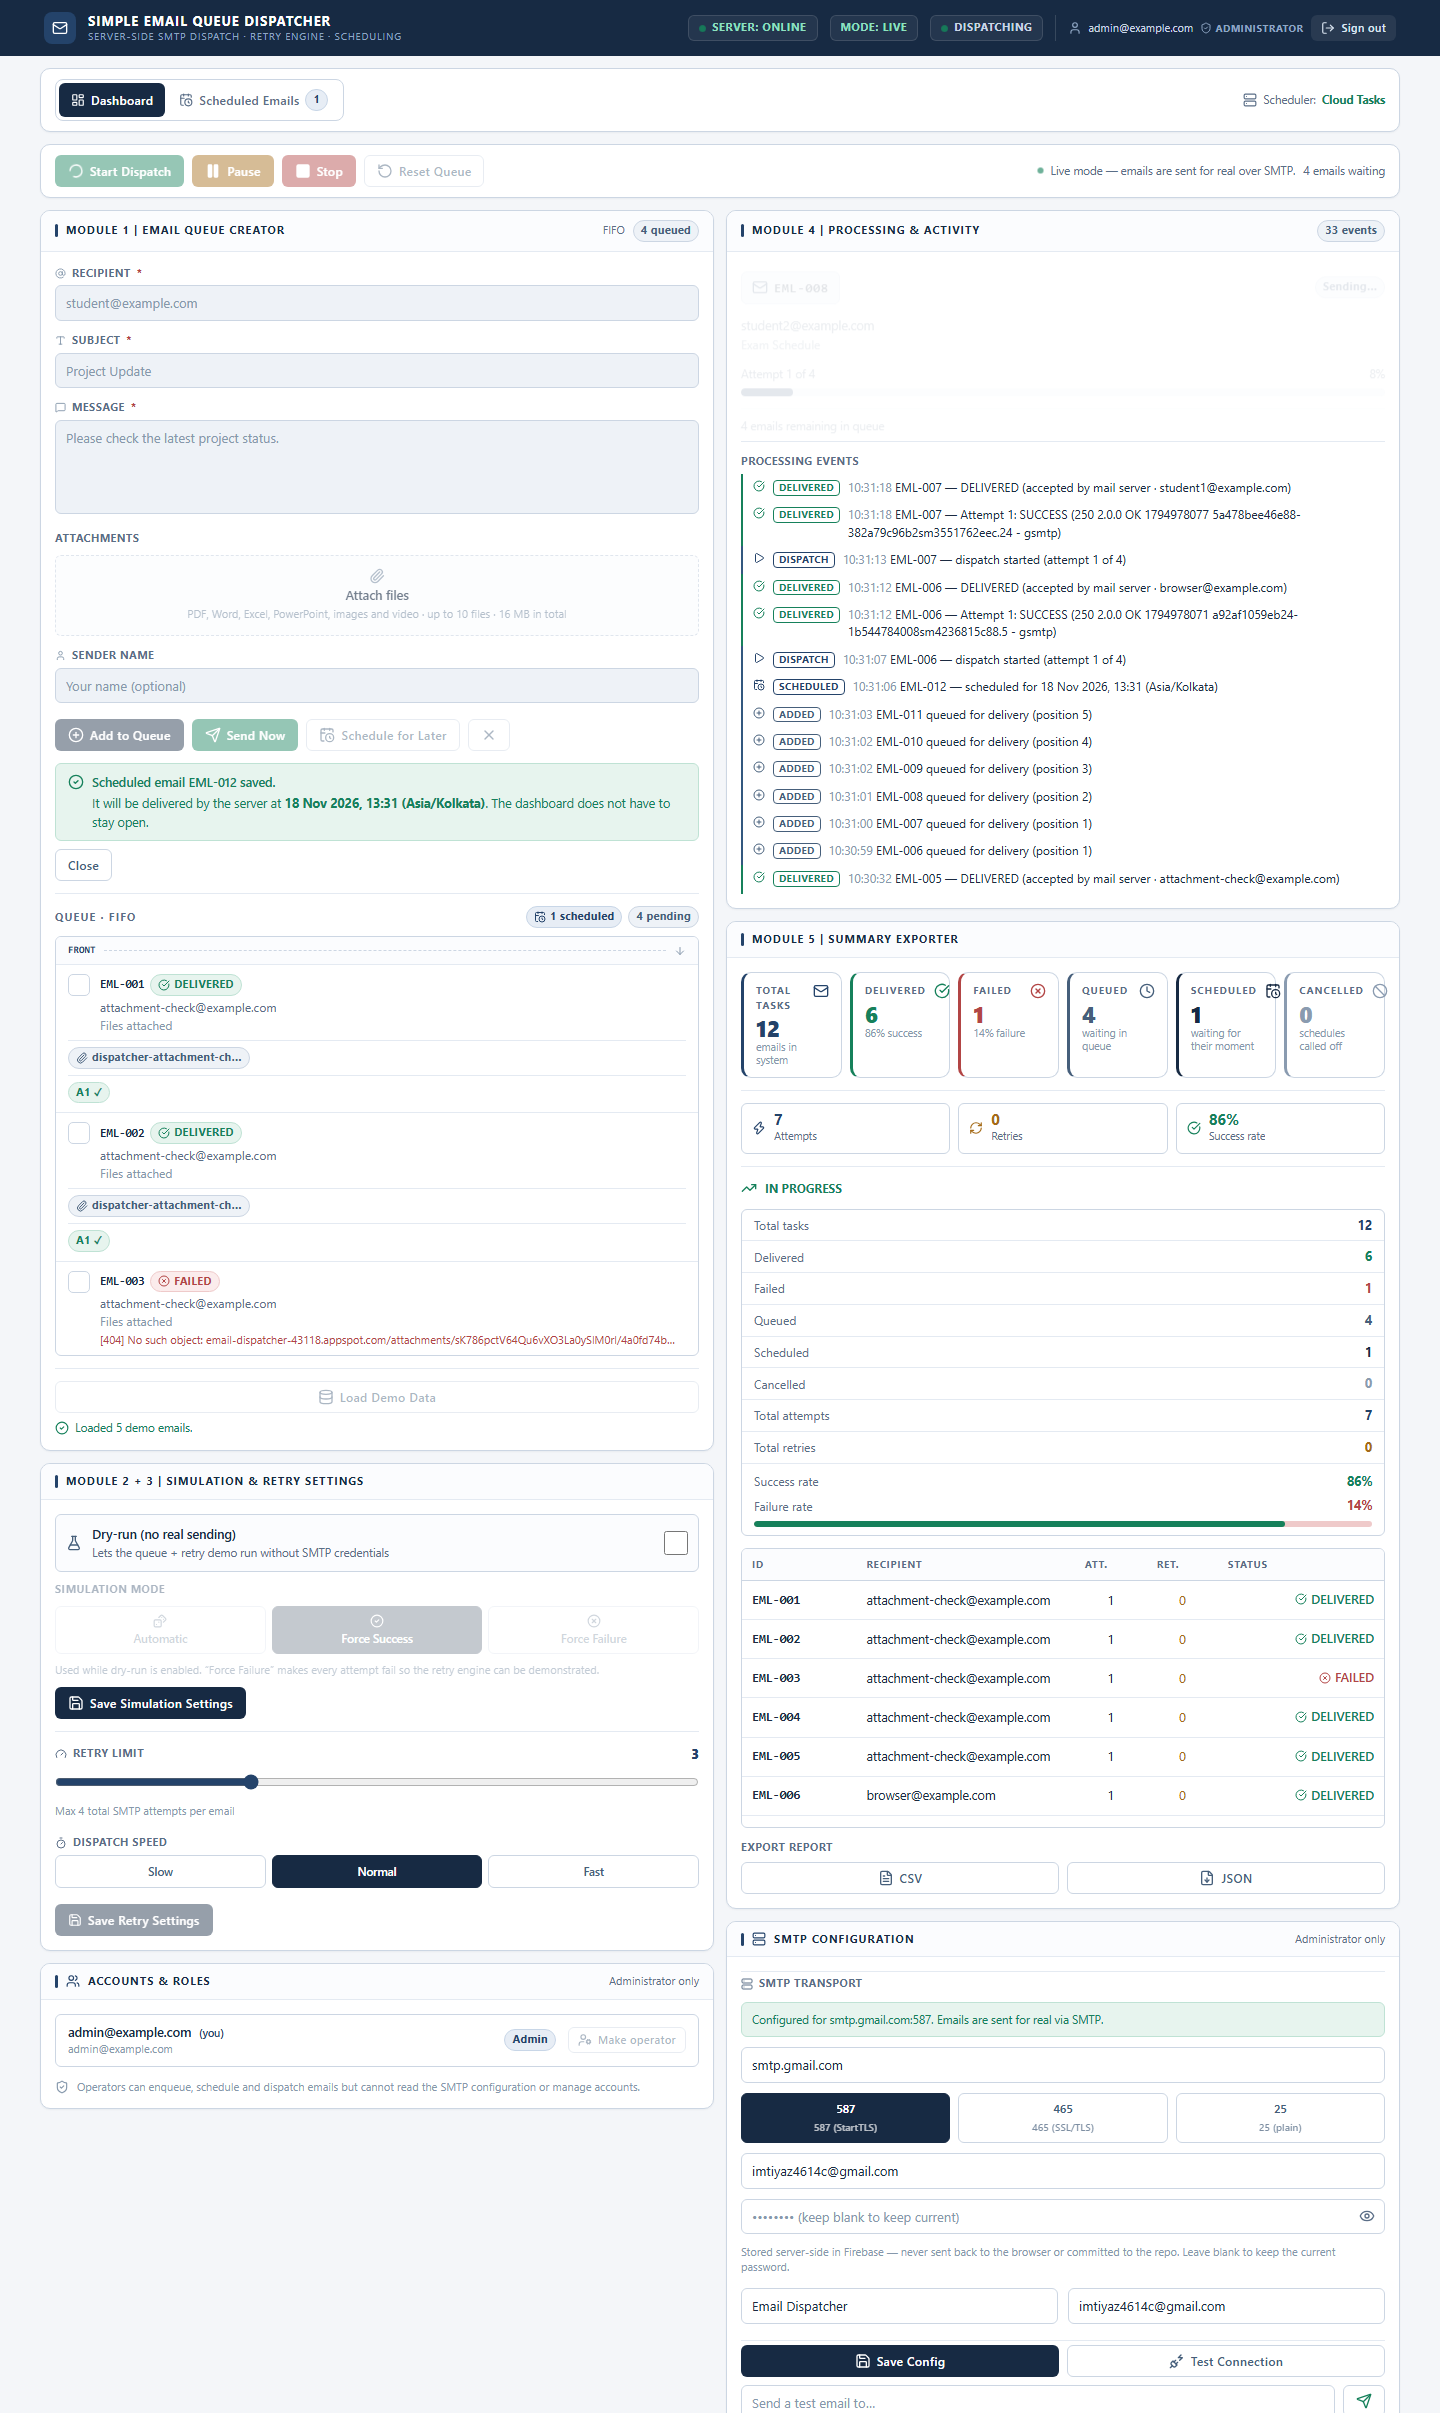
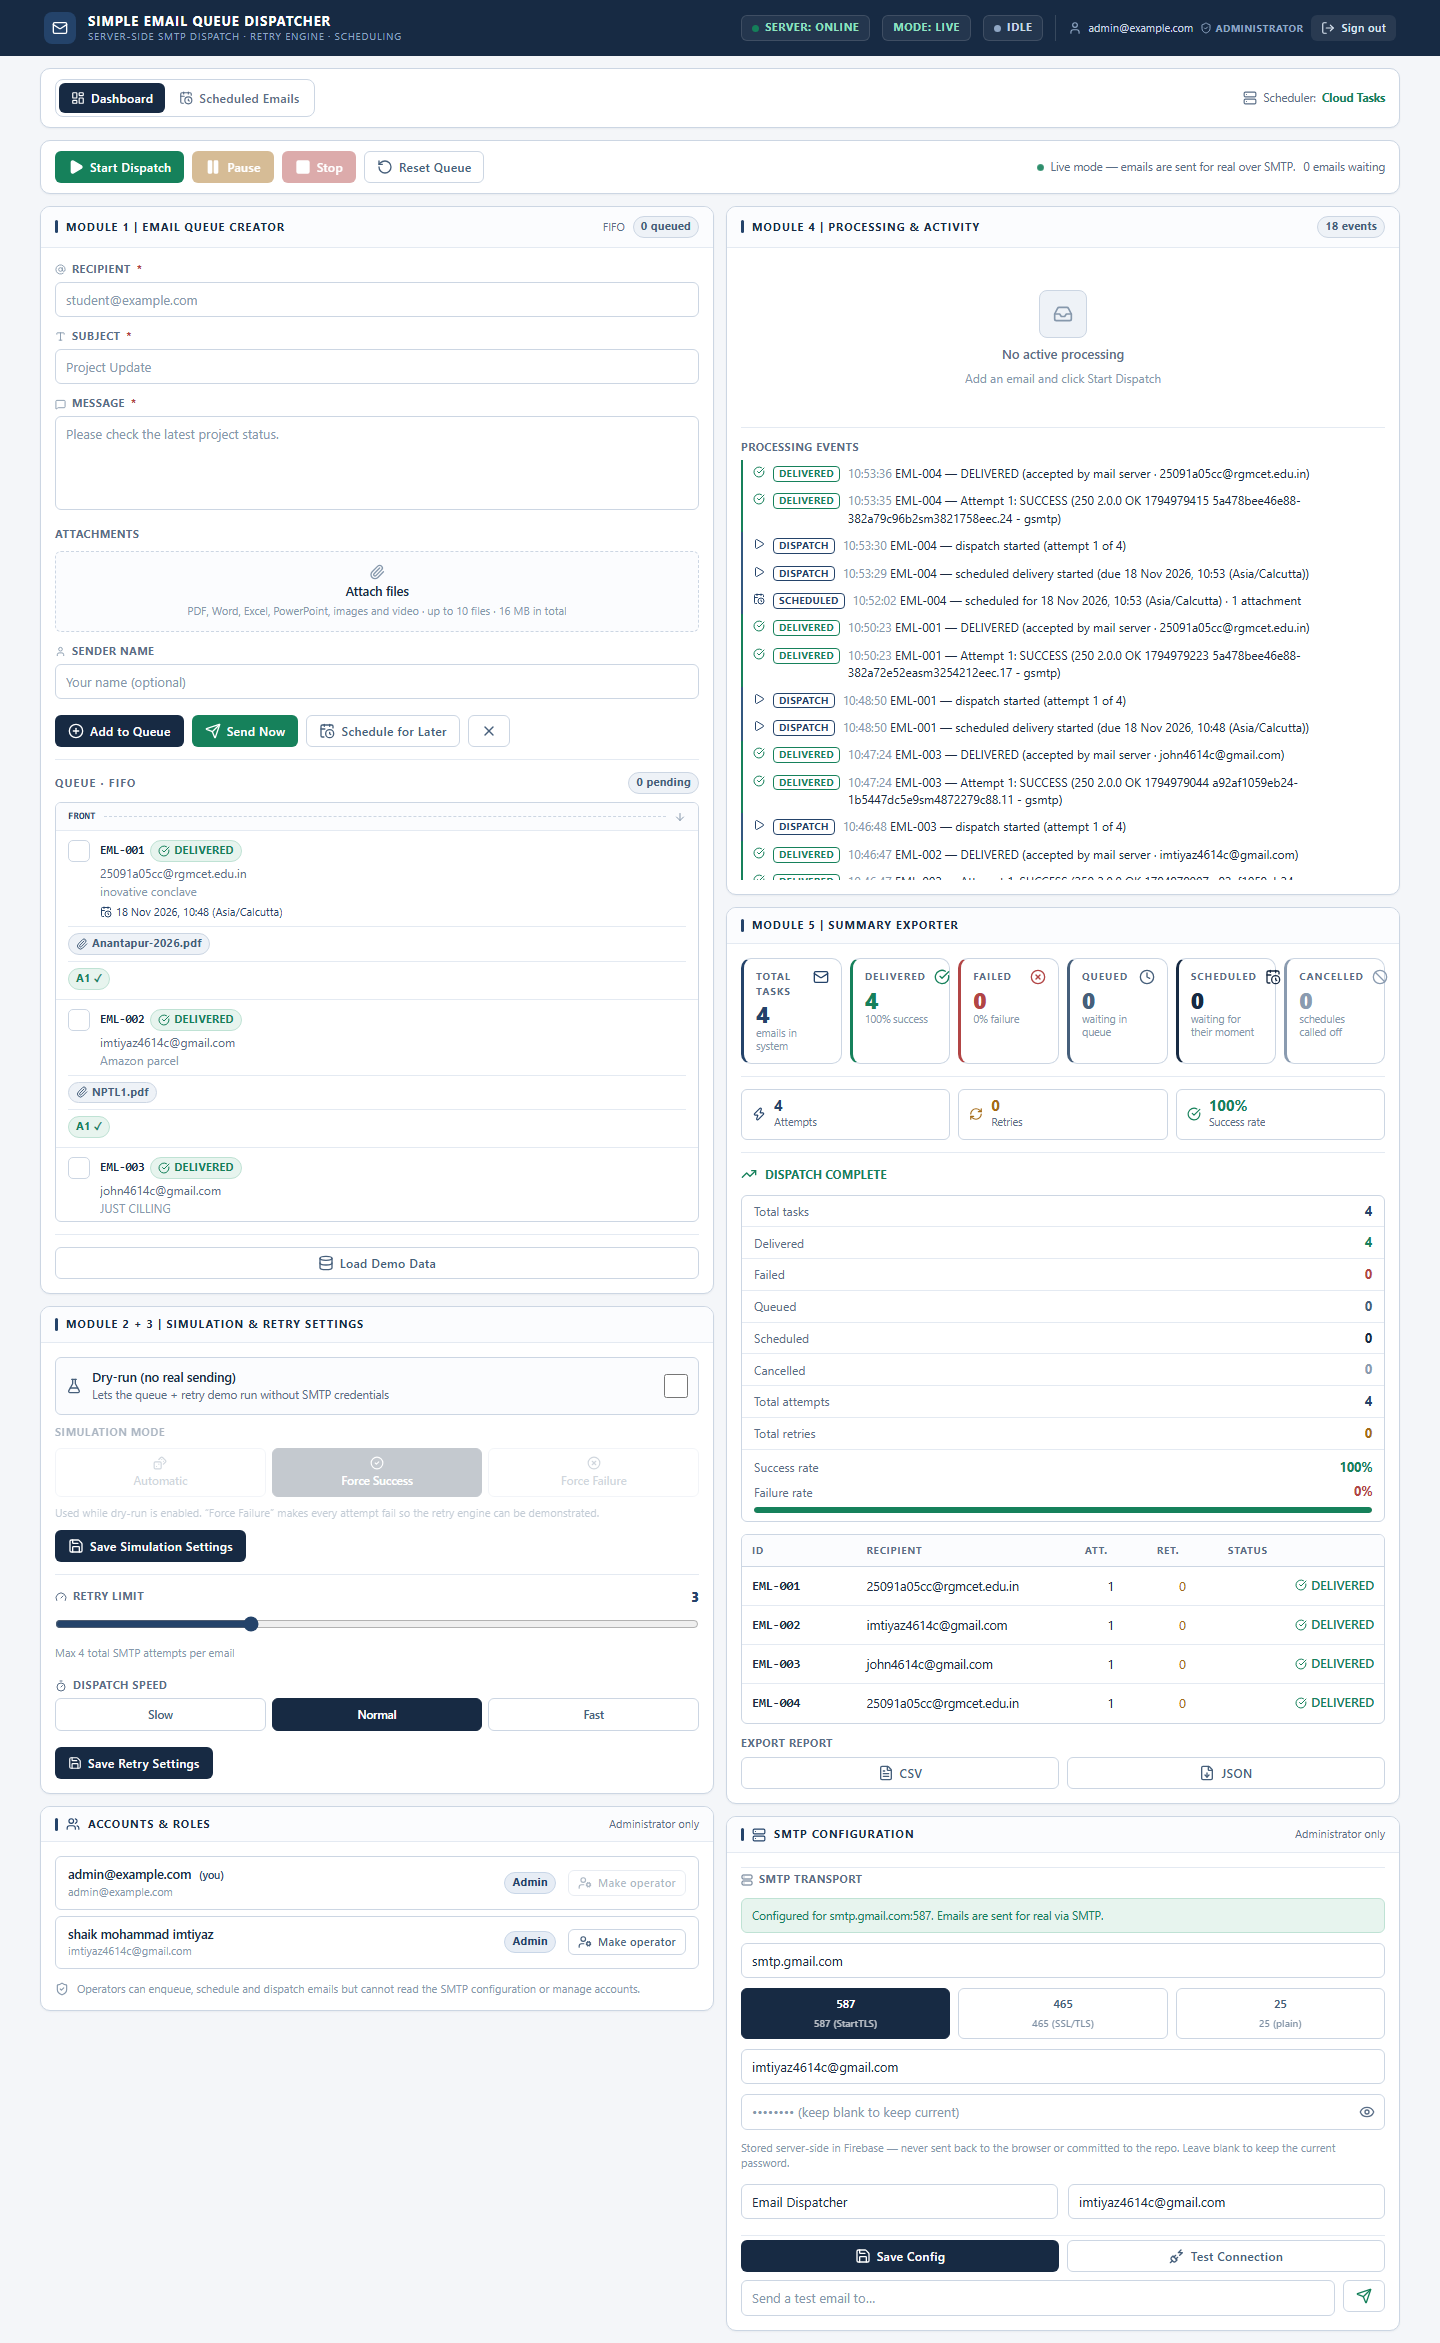
docs(screenshots): keep only dashboard and scheduled emails; capture modules separately
Reorganise the README screenshots section: drop the 'Queue & processing'
column, keep 'Dashboard' and 'Scheduled emails', and add a 'Module by
module' subsection with one screenshot per module (Module 1, Module 2+3,
Module 4, Module 5, and the admin panel). A new script
(scripts/screenshot_modules.py) captures them element by element.

Regenerate the dashboard screenshots to reflect the attachment UI added to
Module 1.

diff --git a/scripts/screenshot_modules.py b/scripts/screenshot_modules.py
@@ -1,0 +1,111 @@
+"""Capture dashboard screenshots module by module.
+
+Signs in against the Auth emulator, then screenshots the whole dashboard and
+each module panel individually.
+"""
+
+import json
+import sys
+import urllib.request
+from pathlib import Path
+
+from playwright.sync_api import sync_playwright
+
+BASE = "http://localhost:5173"
+AUTH_BASE = "http://127.0.0.1:9099"
+TEST_EMAIL = "admin@example.com"
+TEST_PASSWORD = "integration-admin-password"
+OUT = Path(__file__).resolve().parent.parent / "docs" / "screenshots"
+
+
+def auth_post(path: str, body: dict) -> int:
+    data = json.dumps(body).encode("utf-8")
+    req = urllib.request.Request(
+        f"{AUTH_BASE}/identitytoolkit.googleapis.com/v1/accounts:{path}?key=fake-api-key",
+        data=data,
+        headers={"Content-Type": "application/json"},
+        method="POST",
+    )
+    try:
+        with urllib.request.urlopen(req, timeout=30) as res:
+            return res.status
+    except urllib.error.HTTPError as err:
+        return err.code
+
+
+def auth_account(email: str, password: str) -> None:
+    body = {"email": email, "password": password, "returnSecureToken": True}
+    if auth_post("signUp", body) == 200:
+        return
+    auth_post("signInWithPassword", body)
+
+
+def sign_in(page) -> None:
+    if not page.locator("#auth-email").count():
+        return
+    page.fill("#auth-email", TEST_EMAIL)
+    page.fill("#auth-password", TEST_PASSWORD)
+    page.locator("form").get_by_role("button", name="Sign in").click()
+    page.wait_for_timeout(4000)
+
+
+def shot_panel(page, title_substr: str, filename: str) -> bool:
+    """Screenshot the card that contains the given title text."""
+    loc = page.locator(f"text={title_substr}").first
+    if not loc.count():
+        print(f"  skip (not found): {title_substr}")
+        return False
+    # walk up to the nearest .card ancestor
+    card = loc.locator("xpath=ancestor::div[contains(@class,'card')][1]")
+    if not card.count():
+        card = loc
+    card.screenshot(path=str(OUT / filename))
+    print(f"  saved: {filename}")
+    return True
+
+
+def main() -> int:
+    auth_account(TEST_EMAIL, TEST_PASSWORD)
+    OUT.mkdir(parents=True, exist_ok=True)
+
+    with sync_playwright() as p:
+        browser = p.chromium.launch()
+        page = browser.new_page(viewport={"width": 1440, "height": 1000})
+
+        page.goto(BASE, wait_until="domcontentloaded", timeout=60_000)
+        page.wait_for_selector("h1", timeout=30_000)
+        sign_in(page)
+        page.wait_for_timeout(3000)
+
+        # ── full dashboard ───────────────────────────────────────────────────
+        page.screenshot(path=str(OUT / "dashboard.png"), full_page=True)
+        print("  saved: dashboard.png")
+
+        # ── module by module ─────────────────────────────────────────────────
+        shot_panel(page, "MODULE 1 | EMAIL QUEUE CREATOR", "module-1-email-queue-creator.png")
+        shot_panel(page, "MODULE 2 + 3 | SIMULATION & RETRY SETTINGS", "module-2-3-simulation-retry.png")
+        shot_panel(page, "MODULE 4 | PROCESSING & ACTIVITY", "module-4-processing-activity.png")
+        shot_panel(page, "MODULE 5 | SUMMARY EXPORTER", "module-5-summary-exporter.png")
+
+        # the admin panel (only present for administrators)
+        admin = page.locator("text=Accounts & Roles").first
+        if admin.count():
+            card = admin.locator("xpath=ancestor::div[contains(@class,'card')][1]")
+            if card.count():
+                card.screenshot(path=str(OUT / "module-admin-accounts-roles.png"))
+                print("  saved: module-admin-accounts-roles.png")
+
+        # ── scheduled emails tab ─────────────────────────────────────────────
+        page.get_by_role("tab", name="Scheduled Emails").click()
+        page.wait_for_timeout(2000)
+        page.screenshot(path=str(OUT / "scheduled-emails.png"), full_page=True)
+        print("  saved: scheduled-emails.png")
+
+        browser.close()
+
+    print("done")
+    return 0
+
+
+if __name__ == "__main__":
+    raise SystemExit(main())

diff --git a/README.md b/README.md
@@ -83,12 +83,27 @@ file. See [3.1](#31-attachments).
 
 ## 2. Screenshots
 
-| Dashboard | Queue & processing | Scheduled emails |
-| --- | --- | --- |
-| ![Dashboard](docs/screenshots/dashboard.png) | ![Desktop](docs/screenshots/desktop.png) | ![Scheduled emails](docs/screenshots/scheduled-emails.png) |
-| Live counters, the dry-run/live banner, and the whole board | FRONT → REAR queue, per-attempt badges | The scheduled deliveries, their timezone and the time left |
+| Dashboard | Scheduled emails |
+| --- | --- |
+| ![Dashboard](docs/screenshots/dashboard.png) | ![Scheduled emails](docs/screenshots/scheduled-emails.png) |
+| The whole board — header, the five modules, the queue and the activity log | The scheduled deliveries, their timezone and the time left |
 
-More captures live in [`docs/screenshots/`](docs/screenshots/).
+### Module by module
+
+Every module of the dashboard, captured on its own:
+
+| Module 1 · Email Queue Creator | Module 2 + 3 · Simulation & Retry |
+| --- | --- |
+| ![Module 1](docs/screenshots/module-1-email-queue-creator.png) | ![Module 2 + 3](docs/screenshots/module-2-3-simulation-retry.png) |
+| The composer with the attachment picker and the FRONT → REAR queue | SMTP transport, simulation mode, retry settings and the dispatcher |
+
+| Module 4 · Processing & Activity | Module 5 · Summary Exporter |
+| --- | --- |
+| ![Module 4](docs/screenshots/module-4-processing-activity.png) | ![Module 5](docs/screenshots/module-5-summary-exporter.png) |
+| The live attempt, per-attempt badges and the activity log | Statistics, success rates and the export panel |
+
+More captures (mobile viewports, the sign-in screen, the scheduling panel)
+live in [`docs/screenshots/`](docs/screenshots/).
 
 ---
 
@@ -1037,6 +1052,7 @@ Two optional browser checks (they need `pip install playwright` and
 python scripts/browser_check.py     # signs in, renders the dashboard, captures screenshots
 python scripts/responsive_check.py  # layout + accessibility sweep over 4 breakpoints
 python scripts/attachment_check.py  # attaches a file, queues it, delivers it
+python scripts/screenshot_modules.py # captures the dashboard module by module
 ```
 
 ---
